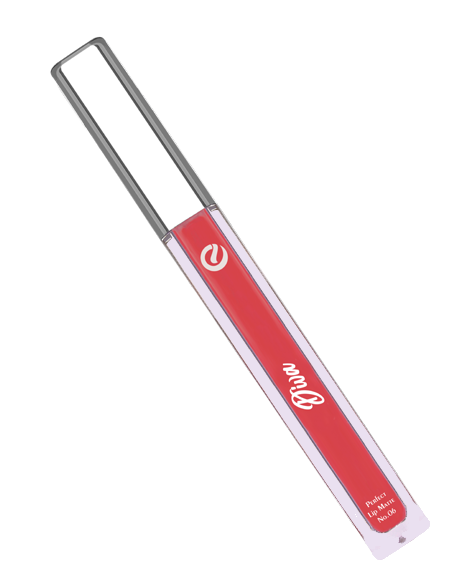
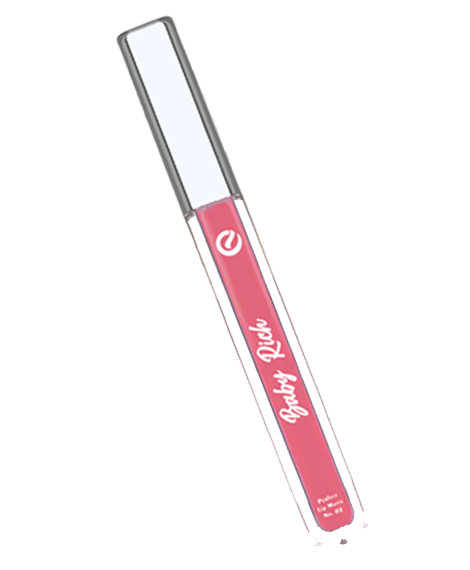
lipmatte

Changed region(s): [[0.0894, 0.0298, 0.9234, 0.9842]]

diff --git a/style.css b/style.css
@@ -1,4 +1,4 @@
-@import url('https://fonts.googleapis.com/css?family=Poppins:200,300,400,500,600,700,800,900&display=swap');
+@import url('https://fonts.googleapis.com/css2?family=Poppins:wght@200;300;400;500;600;700;800,900,1000&display=swap');
 *
 {
     margin: 0;
@@ -6,16 +6,14 @@
     box-sizing: border-box;
     font-family: 'Poppins', sans-serif;
 }
-section
+.main
 {
     position: relative;
-    width: 100%;
+    background: linear-gradient(120deg,#fff,#fff 60%,pink 60%,pink 100%);
     min-height: 100vh;
-    padding: 100px;
+    padding: 0 100px;
     display: flex;
-    justify-content: space-between;
     align-items: center;
-    background: #fff;
 }
 header
 {
@@ -23,116 +21,77 @@ header
     top: 0;
     left: 0;
     width: 100%;
-    padding: 10px 100px;
+    padding: 30px 100px;
     display: flex;
-    justify-content: space-between;
+    justify-content: flex-start;
     align-items: center;
-}
-header .logo
-{
-    position: relative;
-    max-width: 80px;
 }
 header ul
 {
-    position: relative;
     display: flex;
 }
 header ul li
 {
     list-style: none;
+    margin: 0 10px;
 }
 header ul li a
 {
-    display: inline-block;
-    color: #e2667a;
-    font-weight: 400;
-    margin-left: 40px;
     text-decoration: none;
+    color: rgb(230, 61, 61);
+    font-weight: 500;
+    font-size: 18px;
 }
-.content
+header ul li a:hover
+header ul li a.active
 {
-    position: relative;
+    color: #e4697e;
+}
+.content8x
+{
     width: 100%;
     display: flex;
-    justify-content: space-between;
     align-items: center;
 }
-.content .textbox
+.content8x .text
 {
-    position: relative;
-    max-width: 300%;
+    max-width: 800px;
 }
-.content .textbox h3
+.content8x .text h2
+{
+    font-size: 5em;
+    color: #e4697e;
+}
+.content8x .text p
+{
+    font-size: 1.1em;
+    color: #333;
+    line-height: 1.7em;
+}
+.content8x .text h3
 {
     color: #333;
     font-size: 4em;
     line-height: 1.4em;
     font-weight: 300;
 }
-.content .textbox h3 span
+.content8x .text span
 {
-    color: #ee5d75;
-    font-size: 1.4em;
+    text-shadow: 1px 2px 3px 4px 5px #333;
+    color: #e4697e;
+    font-size: 1.3em;
     font-weight: 400;
-    font-style: initial;
+    font-style: initial;    
 }
-.content .textbox p
-{
-    color: #333;
-}
-.content .textbox a
+.content8x .text a
 {
     display: inline-block;
     margin-top: 20px;
     padding: 8px 20px;
-    background: #d85c74;
+    background: #e4697e;
     color: #fff;
     border-radius: 40px;
     font-weight: 500;
     letter-spacing: 1px;
-    text-decoration: none;    
-}
-.content .imgbox
-{
-    width: 700px;
-    display: flex;
-    justify-content: flex-end;
-    padding-right: -20px;
-    margin-top: 50px;
-}
-.content .imgbox img
-{
-    max-width: 840px;
-}
-.sci
-{
-    position: absolute;
-    top: 50%;
-    right: -80px;
-    transform: translateY(-50%);
-    display: flex;
-    justify-content: center;
-    align-items: center;
-    flex-direction: column;
-}
-.sci li
-{
-    list-style: none;
-}
-.sci li a
-{
-    display: inline-block;
-    margin: 5px 0;
-    transform: scale(0.6);
-}
-.circle
-{
-    position: absolute;
-    top: 0;
-    left: 0;
-    width: 100%;
-    height: 100%;
-    background: #f1768f;
-    clip-path: circle(600px at right 725px);
+    text-decoration: none;  
 }

diff --git a/index.html b/index.html
@@ -1,38 +1,38 @@
-<!DOCTYPE html>
-<html lang="en">
-<head>
-    <meta charset="UTF-8">
-    <title>Evoush</title>
-    <link rel="shorcut icon" href="image/icon213.png" type="image/x-icon">
-    <link rel="stylesheet" href="style.css"
-</head>
-<body>
-    <section>
-        <div class="circle"></div>
-        <header>
-            <ul>
-                <li><a href="#">home</a></li>
-                <li><a href="#">menu</a></li>
-                <li><a href="#">product</a></li>
-                <li><a href="#">contact</a></li>
-            </ul>
-        </header>
-        <div class="content">
-            <div class="textbox">
-                <h3><span>Lipmatte </span></h3>
-                <br>
-                <p>Evoush Perfect Lipmatte dibuat dari bahan pilihan dan foodgrade, sehingga aman digunakan untuk jangka pnajang yaitu: Cyclopentaxlloxane, Kaolln, Talc, Titanium Dloxide dan Beeswax.</p>
-                    <a href="#">learn more</a>
+    <!DOCTYPE html>
+    <html lang="en">
+    <head>
+        <meta charset="UTF-8">
+        <meta http-equiv="X-UA-Compatible" content="IE=edge">
+        <meta name="viewport" content="width=device-width, initial-scale=1.0">
+        <title>Lipmatte</title>
+        <link rel="shorcut icon" href="image/icon213.png">
+        <link rel="stylesheet" href="style.css">
+    </head>
+    <body>
+        <section class="main">
+            <header>
+                <ul>
+                    <li><a href="index.html" class="active">Home</a></li>
+                    <li><a href="product.html">Product</a></li>
+                    <li><a href="FAQ.html">FAQ</a></li>
+                    <li><a href="contact.html">Contact</a></li>
+                </ul>
+            </header>
+            <div class="content8x">
+                <div class="text">
+                    <h3><span> evoush </span><br>perfect lipmatte</h3>
+                    <br>
+                    <p>Evoush perfect Lipmatte memiliki keunggulan yaitu dibuat dengan bahan pilihan dan terdapat foodgrade sehingga aman jika tertelan, longlasting(tidak perlu sering touch up setelah makan/minum). teksturnya ringan, tidak menggumpal jika terkena air.</p>
+                    <a href="learnmore.html">learn more</a>
+                </div>
+                <div class="imgbox">
+                    <img src="image/yahuyi.png" class="image"
+                </div>
             </div>
-            <div class="imgbox">
-                <img src="image/ayaka.png" class="Lipmatte"
-            </div>
-            <ul class="sci">
-                <li><a href="#"><img src="image/icon12.png"></a></li>
-                <li><a href="#"><img src="image/icon22.png"></a></li>
-                <li><a href="#"><img src="image/icon3.png"></a></li>
-            </ul>
-        </div>
-    </section>
-</body>
-</html>
+        </section>
+
+        <script type="module" src="https://unpkg.com/ionicons@5.5.2/dist/ionicons/ionicons.esm.js"></script>
+        <script nomodule src="https://unpkg.com/ionicons@5.5.2/dist/ionicons/ionicons.js"></script>
+        
+    </body>
+    </html>
